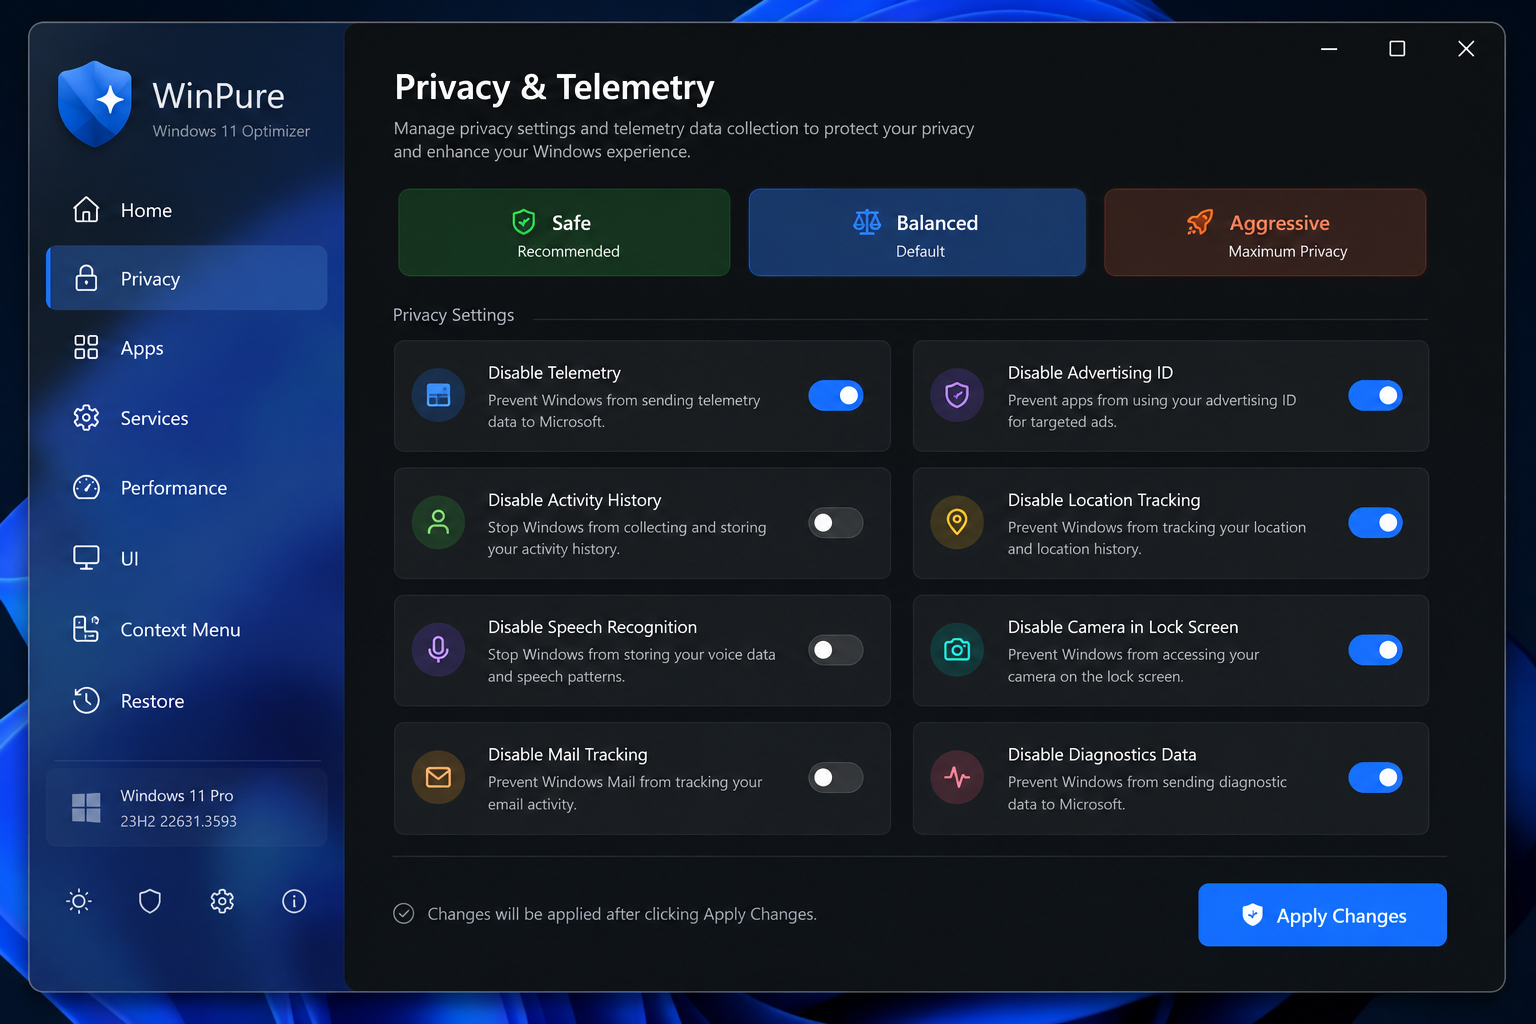
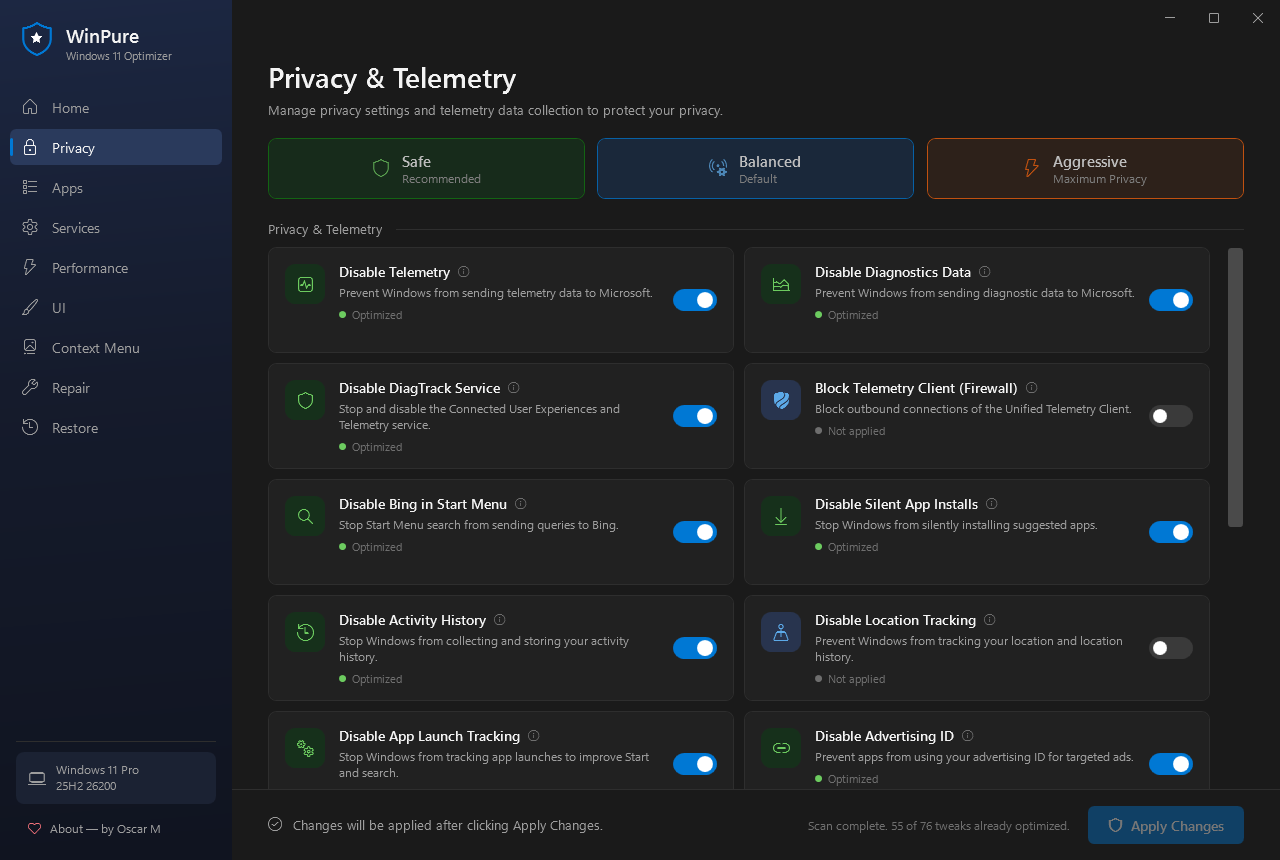
WinUtil-style README: badges, real screenshots, full tweak reference docs

diff --git a/src/WinPure/Services/RepairCatalog.cs b/src/WinPure/Services/RepairCatalog.cs
@@ -23,7 +23,7 @@ public static class RepairCatalog
             Id = "repair-restore-point",
             Name = "Create System Restore Point",
             Description = "Create a Windows restore point before making big changes.",
-            Icon = "",
+            Icon = "",
             Script = """
                 $ErrorActionPreference = 'Stop'
                 New-ItemProperty -Path 'HKLM:\SOFTWARE\Microsoft\Windows NT\CurrentVersion\SystemRestore' `
@@ -38,7 +38,7 @@ public static class RepairCatalog
             Id = "repair-system-files",
             Name = "Repair System Files (SFC + DISM)",
             Description = "Scan and repair corrupted Windows system files. Can take 15–30 minutes.",
-            Icon = "",
+            Icon = "",
             ConfirmText = "This runs 'sfc /scannow' followed by 'DISM /RestoreHealth'. It can take 15–30 minutes and cannot be cancelled midway. Continue?",
             TimeoutMs = 3_600_000,
             Script = """
@@ -52,7 +52,7 @@ public static class RepairCatalog
             Id = "repair-windows-update",
             Name = "Reset Windows Update",
             Description = "Fix stuck updates: clear the download cache and restart update services.",
-            Icon = "",
+            Icon = "",
             ConfirmText = "This stops the update services, clears the Windows Update download cache (SoftwareDistribution\\Download) and restarts the services. Continue?",
             Script = """
                 $ErrorActionPreference = 'SilentlyContinue'
@@ -71,7 +71,7 @@ public static class RepairCatalog
             Id = "repair-network",
             Name = "Reset Network",
             Description = "Reset Winsock, the TCP/IP stack and flush the DNS cache.",
-            Icon = "",
+            Icon = "",
             ConfirmText = "This resets Winsock and the TCP/IP stack (netsh) and flushes DNS. You should restart afterwards. Continue?",
             RequiresRestart = true,
             Script = """
@@ -86,7 +86,7 @@ public static class RepairCatalog
             Id = "repair-temp-files",
             Name = "Clean Temporary Files",
             Description = "Delete user and system temp files to free disk space.",
-            Icon = "",
+            Icon = "",
             Script = """
                 $ErrorActionPreference = 'SilentlyContinue'
                 $before = (Get-PSDrive -Name $env:SystemDrive.TrimEnd(':')).Free

diff --git a/README.md b/README.md
@@ -1,38 +1,150 @@
+<div align="center">
+
+<img src="docs/icon.png" width="120" alt="WinPure icon"/>
+
 # WinPure
 
 **A modern, safe, open-source Windows 11 debloater and optimizer.**
 
-WinPure lets you clean, optimize and take control of Windows 11 from a single Fluent-Design app: privacy & telemetry, bloatware, services, performance, UI and context-menu tweaks — with presets for one-click use and an always-available **Restore** that snapshots every change before it is made.
+*Made with ❤ by [Oscar Medina](https://www.youtube.com/@oscar_emeh) (@oscaremeh) — free for everyone, forever.*
 
-![WinPure — Privacy & Telemetry page](docs/screenshots/privacy.png)
+[![Latest release](https://img.shields.io/github/v/release/oscarmm91/winpure?color=0078D4&label=release)](https://github.com/oscarmm91/winpure/releases/latest)
+[![Downloads](https://img.shields.io/github/downloads/oscarmm91/winpure/total?color=107C10)](https://github.com/oscarmm91/winpure/releases)
+[![Build](https://github.com/oscarmm91/winpure/actions/workflows/build.yml/badge.svg)](https://github.com/oscarmm91/winpure/actions)
+[![License: MIT](https://img.shields.io/badge/license-MIT-blue.svg)](LICENSE)
+[![Platform](https://img.shields.io/badge/platform-Windows%2010%2F11-0078D4)](#requirements)
 
-## Highlights
+<img src="docs/screenshots/privacy.png" width="850" alt="WinPure — Privacy & Telemetry"/>
 
-- 🛡 **Never breaks your system** — every change is captured in a registry/service snapshot *before* it is applied. Roll back any session from the Restore page.
-- ⚡ **Three presets** — *Safe* (recommended, fully reversible), *Balanced* (+ optional services & third-party bloatware) and *Aggressive* (+ OneDrive, Copilot/AI, Xbox, DiagTrack).
-- 🎛 **Tweak-by-tweak control** — every tweak is a card with a description, detailed help, its real current state (already optimized / not applied) and a toggle. Mix presets with manual selection freely.
-- 🔍 **State detection** — on launch WinPure scans the system and shows what is already optimized.
-- 📴 **Fully offline** — no servers, no telemetry of its own, single portable .exe (runs from a USB stick).
+</div>
 
-## Download & run
+---
 
-1. Grab `WinPure.exe` from [Releases](../../releases) — no installer, no .NET required (self-contained).
-2. Run it. Windows asks for administrator permission (needed for HKLM/services/tasks).
-3. Pick a preset or toggle individual tweaks → **Apply Changes**.
+## Why WinPure?
 
-> Backups land in `%AppData%\WinPure\Backups\`, session logs in `%AppData%\WinPure\Logs\`.
+- 🛡 **It never breaks your system.** Every registry value, service and scheduled task is snapshotted **before** it is touched. One click in the *Restore* page rolls anything back.
+- ⚡ **One-click presets** — *Safe*, *Balanced* and *Aggressive* — or full manual control, tweak by tweak. Mix both freely.
+- 🔍 **Honest state detection.** On launch WinPure scans your system and shows what is *already optimized* vs *not applied*. No fake "boost" buttons.
+- 🧰 **Repair toolbox built in** — SFC + DISM, Windows Update reset, network reset, restore points and temp cleanup.
+- 📴 **100 % offline & portable.** A single .exe — no installer, no .NET needed, no telemetry of its own, runs from a USB stick.
+- 🆓 **MIT licensed.** Free for everyone, forever.
 
-## Tweak categories
+## Download
 
-| Category | Examples |
-|---|---|
-| **Privacy & Telemetry** | AllowTelemetry → 0, DiagTrack service, telemetry firewall block, Bing in Start, Activity History, Advertising ID, CEIP/Compatibility-Appraiser tasks |
-| **Bloatware & Apps** | Candy Crush, TikTok/Facebook/Instagram, Netflix/Disney+/Prime/Spotify, Skype, Clipchamp, Zune apps, Xbox suite, OneDrive, Copilot |
-| **Services** | SysMain, Search Indexing, Print Spooler, Remote Registry, Error Reporting, CDP, Geolocation, Fax, Bluetooth |
-| **Performance** | App/shutdown timeouts, foreground priority, animations, hibernation, power plan, Remote Desktop |
-| **UI & Personalization** | Dark mode, Start suggestions, taskbar Widgets/Task View/Chat, file extensions, hidden files, taskbar alignment |
-| **Context Menu** | Classic Windows 10 menu, remove "Edit with Clipchamp/Notepad/Photos", "Ask Copilot", "Share", "Give access to" |
-| **Repair & Maintenance** | System restore point, SFC + DISM repair, Reset Windows Update, Reset Network, clean temp files |
+1. Download **`WinPure.exe`** from the [latest release](https://github.com/oscarmm91/winpure/releases/latest).
+2. Run it — Windows asks for administrator permission (needed for HKLM, services and scheduled tasks).
+3. Pick a preset or flip individual toggles → **Apply Changes**. A backup is created automatically first.
+
+> 📁 Backups: `%AppData%\WinPure\Backups\` · Logs: `%AppData%\WinPure\Logs\`
+
+## Presets
+
+| Preset | What it includes | Risk |
+|---|---|---|
+| 🟢 **Safe** | Basic telemetry off, no Bing/ads in Start, advertising ID off, cleaner context menu, dark mode, taskbar cleanup | None — fully reversible |
+| 🔵 **Balanced** | Safe + optional services off, third-party bloatware removed (TikTok, Netflix, Candy Crush…), Delivery Optimization off, faster shutdown | Low |
+| 🟠 **Aggressive** | Balanced + OneDrive removal, Copilot/AI & Recall off, Xbox components removed, DiagTrack disabled, telemetry firewall block | Power users |
+
+Selecting a preset only marks the toggles — **nothing changes until you click Apply Changes**.
+
+## What it can do
+
+> 📚 Full tweak reference with registry details: [docs/tweaks.md](docs/tweaks.md)
+
+<details>
+<summary>🔒 <b>Privacy & Telemetry</b> — 16 tweaks</summary>
+<br/>
+Telemetry (AllowTelemetry → 0), diagnostics data, DiagTrack service, outbound telemetry firewall block, Bing in Start Menu, silent app installs, Consumer Features, Delivery Optimization, background apps, Activity History, location tracking, app-launch tracking, Advertising ID, Windows Feedback, online speech recognition, inking/typing personalization, Compatibility-Appraiser & CEIP scheduled tasks.
+<br/><br/>
+<img src="docs/screenshots/privacy.png" width="800"/>
+</details>
+
+<details>
+<summary>📦 <b>Bloatware & Apps</b> — 17 tweaks</summary>
+<br/>
+Candy Crush, TikTok/Facebook/X/Instagram, Netflix/Disney+/Prime/Spotify, Skype, Clipchamp, Paint 3D & 3D Viewer, To Do, Groove/Movies & TV, Solitaire, Wallet, Whiteboard, Phone Link, Dev Home, Get Help & Tips, Xbox suite + Game DVR, Copilot, Windows AI & Recall, OneDrive.
+<br/><br/>
+<img src="docs/screenshots/apps.png" width="800"/>
+</details>
+
+<details>
+<summary>⚙ <b>Services</b> — 9 tweaks</summary>
+<br/>
+SysMain (SuperFetch), Windows Search indexing, Print Spooler, Remote Registry, Error Reporting, Connected Devices Platform, Geolocation, Fax, Bluetooth — each disabled service is snapshotted with its original start mode.
+<br/><br/>
+<img src="docs/screenshots/services.png" width="800"/>
+</details>
+
+<details>
+<summary>🚀 <b>Performance</b> — 10 tweaks</summary>
+<br/>
+Faster app timeouts & shutdown, foreground-app priority, window animations, hibernation, High Performance power plan, fullscreen optimizations, mouse acceleration, long paths, Remote Desktop.
+<br/><br/>
+<img src="docs/screenshots/performance.png" width="800"/>
+</details>
+
+<details>
+<summary>🎨 <b>UI & Personalization</b> — 14 tweaks</summary>
+<br/>
+Dark mode, Snap Assist flyout, Start Menu suggestions/most-used/recently-added, "new app" badge, file extensions, hidden files, Widgets/Task View/Chat taskbar buttons, taskbar alignment, End Task on right-click, Aero Shake.
+<br/><br/>
+<img src="docs/screenshots/ui.png" width="800"/>
+</details>
+
+<details>
+<summary>🖱 <b>Context Menu</b> — 7 tweaks</summary>
+<br/>
+Restore the classic Windows 10 right-click menu, remove "Edit with Clipchamp / Notepad / Photos", "Ask Copilot", "Share" and "Give access to".
+<br/><br/>
+<img src="docs/screenshots/contextmenu.png" width="800"/>
+</details>
+
+<details>
+<summary>🔧 <b>Repair & Maintenance</b> — 5 tools</summary>
+<br/>
+Create a system restore point, repair system files (SFC + DISM), reset Windows Update components, reset the network stack, clean temporary files.
+<br/><br/>
+<img src="docs/screenshots/repair.png" width="800"/>
+</details>
+
+<details>
+<summary>♻ <b>Restore / Backup</b> — undo anything</summary>
+<br/>
+Every Apply creates a JSON snapshot of the exact registry values, service start modes and task states that are about to change. Restore any session — or a single one — at any time.
+<br/><br/>
+<img src="docs/screenshots/restore.png" width="800"/>
+</details>
+
+<details>
+<summary>🏠 <b>Dashboard & About</b></summary>
+<br/>
+<img src="docs/screenshots/dashboard.png" width="800"/>
+<br/><br/>
+<img src="docs/screenshots/about.png" width="320"/>
+</details>
+
+## FAQ
+
+**Is it safe?**
+Yes. WinPure only uses documented registry policies and standard Windows commands, never patches system files, and snapshots everything before changing it. The *Safe* preset is 100 % reversible by design.
+
+**Something broke / I changed my mind. How do I undo?**
+Open **Restore**, pick the snapshot from when you applied the change, click *Restore*. App removals are the only exception — reinstall those from the Microsoft Store.
+
+**Why does it need administrator rights?**
+Most tweaks live in `HKEY_LOCAL_MACHINE`, services and scheduled tasks — all of which require elevation. WinPure asks via the standard UAC prompt.
+
+**Does WinPure phone home?**
+No. Zero network calls except the ones *you* trigger (e.g. the telemetry firewall rule it *blocks*). No analytics, no auto-update.
+
+**Windows 10?**
+Windows 11 is the target; most tweaks also work on Windows 10 22H2+, but it is not actively tested there.
+
+## Requirements
+
+- Windows 11 (Windows 10 22H2+ mostly compatible)
+- Administrator account
+- Nothing else — the exe is self-contained
 
 ## Building from source
 
@@ -42,11 +154,21 @@ dotnet build WinPure.sln                                  # debug build
 dotnet publish src/WinPure/WinPure.csproj -c Release      # portable single-file exe
 ```
 
+Stack: WPF (.NET 8) · C# · MVVM · zero NuGet dependencies. Tweaks are plain data in [`TweakCatalog.cs`](src/WinPure/Services/TweakCatalog.cs) — adding one is a ~10-line PR.
+
 ## Author
 
-Made with ❤ by **Oscar Medina** (@oscaremeh) — *free for everyone, forever.*
+<img src="docs/screenshots/about.png" width="300" align="right"/>
 
-[Instagram](https://www.instagram.com/oscar.emeh/) · [TikTok](https://www.tiktok.com/@oscar.emeh) · [YouTube](https://www.youtube.com/@oscar_emeh)
+Made with ❤ by **Oscar Medina** — *@oscaremeh*
+
+- 📷 [Instagram](https://www.instagram.com/oscar.emeh/)
+- 🎵 [TikTok](https://www.tiktok.com/@oscar.emeh)
+- ▶ [YouTube](https://www.youtube.com/@oscar_emeh)
+
+*Free for everyone, forever.*
+
+<br clear="right"/>
 
 ## Credits
 
@@ -59,4 +181,4 @@ Tweak research builds on the excellent work of
 
 ## License
 
-[MIT](LICENSE) — free and open source.
+[MIT](LICENSE)

diff --git a/docs/tweaks.md b/docs/tweaks.md
@@ -1,0 +1,124 @@
+# WinPure — Tweak Reference
+
+Every tweak, what it touches, and which preset includes it. **Manual** = never auto-selected by a preset.
+All registry/service changes are snapshotted to `%AppData%\WinPure\Backups\` before being applied.
+
+## 🔒 Privacy & Telemetry
+
+| Tweak | Preset | What it does |
+|---|---|---|
+| Disable Telemetry | Safe | `HKLM …\Policies\DataCollection!AllowTelemetry = 0` (Security level) |
+| Disable Diagnostics Data | Safe | Tailored experiences off + feedback notifications hidden |
+| Disable DiagTrack Service | Aggressive | Stops & disables the Connected User Experiences and Telemetry service |
+| Block Telemetry Client (Firewall) | Aggressive | Outbound firewall rule blocking the DiagTrack service |
+| Disable Bing in Start Menu | Safe | `DisableSearchBoxSuggestions = 1` — local search only |
+| Disable Silent App Installs | Safe | `SilentInstalledAppsEnabled = 0` — no sponsored auto-installs |
+| Disable Consumer Features | Safe | `DisableWindowsConsumerFeatures = 1` (no Store games/links auto-install) |
+| Disable Delivery Optimization | Balanced | `DODownloadMode = 0` — stop uploading updates with your bandwidth |
+| Disable Background Apps | Balanced | `BackgroundAccessApplications!GlobalUserDisabled = 1` |
+| Disable Activity History | Safe | Activity feed off; no publishing/uploading user activities |
+| Disable Location Tracking | Balanced | `LocationAndSensors!DisableLocation = 1` |
+| Disable App Launch Tracking | Safe | `Start_TrackProgs = 0` |
+| Disable Advertising ID | Safe | `AdvertisingInfo!Enabled = 0` |
+| Disable Windows Feedback | Safe | `Siuf\Rules!NumberOfSIUFInPeriod = 0` |
+| Disable Online Speech Recognition | Balanced | `OnlineSpeechPrivacy!HasAccepted = 0` |
+| Disable Inking & Typing Personalization | Balanced | InputPersonalization restrictions + TIPC off |
+| Disable Compatibility Telemetry Tasks | Aggressive | Disables *Microsoft Compatibility Appraiser* & *ProgramDataUpdater* scheduled tasks |
+| Disable CEIP & Feedback Tasks | Aggressive | Disables *Consolidator*, *UsbCeip*, *DmClient* scheduled tasks |
+
+## 📦 Bloatware & Apps
+
+App removals use `Remove-AppxPackage -AllUsers` + de-provisioning. **Undo = reinstall from the Microsoft Store** (WinPure warns before applying).
+
+| Tweak | Preset | Packages / keys |
+|---|---|---|
+| Remove Candy Crush | Balanced | `king.com.*` |
+| Remove Social Media Apps | Balanced | TikTok, Facebook, Twitter/X, Instagram |
+| Remove Streaming Apps | Balanced | Netflix, Disney+, Prime Video, Spotify |
+| Remove Skype | Balanced | `Microsoft.SkypeApp` |
+| Remove Clipchamp | Balanced | `Clipchamp.Clipchamp` |
+| Remove Paint 3D & 3D Viewer | Balanced | `Microsoft.MSPaint`, `Microsoft.Microsoft3DViewer` |
+| Remove Microsoft To Do | Manual | `Microsoft.Todos` |
+| Remove Groove Music & Movies + TV | Balanced | `Microsoft.ZuneMusic`, `Microsoft.ZuneVideo` |
+| Remove Solitaire Collection | Balanced | `Microsoft.MicrosoftSolitaireCollection` |
+| Remove Wallet | Balanced | `Microsoft.Wallet` |
+| Remove Whiteboard | Manual | `Microsoft.Whiteboard` |
+| Remove Phone Link | Balanced | `Microsoft.YourPhone` |
+| Remove Dev Home | Balanced | `Microsoft.DevHome` |
+| Remove Get Help & Tips | Balanced | `Microsoft.GetHelp`, `Microsoft.Getstarted` |
+| Remove Xbox Apps & Overlay | Aggressive | Xbox app family + Game DVR off (`GameDVR_Enabled = 0`, `AllowGameDVR = 0`) |
+| Disable Copilot / Windows AI | Aggressive | `TurnOffWindowsCopilot = 1` (HKLM + HKCU) + taskbar button off |
+| Disable Windows AI & Recall | Aggressive | `WindowsAI!DisableAIDataAnalysis = 1`, Notepad AI off, AI Settings page hidden |
+| Remove OneDrive | Aggressive | `OneDriveSetup /uninstall` + `DisableFileSyncNGSC = 1` (files stay on disk) |
+
+## ⚙ Services
+
+Disabling sets registry `Start = 4` and stops the service; the original start mode is captured in the backup.
+
+| Tweak | Preset | Service | Stock mode |
+|---|---|---|---|
+| Disable SysMain (SuperFetch) | Manual | `SysMain` | Automatic |
+| Disable Search Indexing | Manual | `WSearch` | Automatic |
+| Disable Print Spooler | Manual | `Spooler` | Automatic |
+| Disable Remote Registry | Balanced | `RemoteRegistry` | Disabled |
+| Disable Windows Error Reporting | Balanced | `WerSvc` | Manual |
+| Disable Connected Devices Platform | Balanced | `CDPSvc` | Automatic |
+| Disable Geolocation Service | Balanced | `lfsvc` | Manual |
+| Disable Fax Service | Balanced | `Fax` | Manual |
+| Disable Bluetooth Support | Manual | `bthserv` | Manual |
+
+## 🚀 Performance
+
+| Tweak | Preset | What it does |
+|---|---|---|
+| Faster App Timeouts | Safe | `WaitToKillAppTimeout 5000→2000`, `HungAppTimeout 5000→1000` |
+| Faster System Shutdown | Balanced | `WaitToKillServiceTimeout 5000→2000` |
+| Disable Window Animations | Manual | `MinAnimate = 0`, taskbar animations off |
+| Prioritize Foreground Apps | Balanced | `Win32PrioritySeparation = 38` |
+| Disable Hibernation | Manual | `powercfg /hibernate off` (frees hiberfil.sys) |
+| High Performance Power Plan | Manual | `powercfg /setactive` High Performance (not for laptops) |
+| Disable Fullscreen Optimizations | Manual | `GameDVR_DXGIHonorFSEWindowsCompatible = 1` |
+| Disable Mouse Acceleration | Manual | `MouseSpeed/Threshold1/Threshold2 = 0` |
+| Enable Long Paths | Manual | `FileSystem!LongPathsEnabled = 1` |
+| Disable Remote Desktop | Balanced | `fDenyTSConnections = 1` |
+
+## 🎨 UI & Personalization
+
+| Tweak | Preset | What it does |
+|---|---|---|
+| Enable Dark Mode | Safe | `AppsUseLightTheme = 0`, `SystemUsesLightTheme = 0` |
+| Disable Snap Assist Flyout | Manual | `EnableSnapAssistFlyout = 0` |
+| Hide Suggestions in Start | Safe | Subscribed content + `Start_IrisRecommendations = 0` |
+| Hide Most Used Apps in Start | Manual | `ShowOrHideMostUsedApps = 2` |
+| Hide Recently Added Apps in Start | Manual | `HideRecentlyAddedApps = 1` |
+| Hide 'New App Installed' Badge | Safe | `NoNewAppAlert = 1` |
+| Show File Extensions | Safe | `HideFileExt = 0` |
+| Show Hidden Files | Manual | `Hidden = 1` |
+| Remove Widgets Button | Safe | `TaskbarDa = 0` |
+| Remove Task View Button | Safe | `ShowTaskViewButton = 0` |
+| Remove Chat/Teams Button | Safe | `TaskbarMn = 0` |
+| Align Taskbar Left | Manual | `TaskbarAl = 0` |
+| End Task on Taskbar Right-Click | Safe | `TaskbarDeveloperSettings!TaskbarEndTask = 1` |
+| Disable Aero Shake | Safe | `DisallowShaking = 1` |
+
+## 🖱 Context Menu
+
+| Tweak | Preset | Mechanism |
+|---|---|---|
+| Restore Classic Context Menu | Safe | Empty `InprocServer32` for CLSID `{86ca1aa0-34aa-4e8b-a509-50c905bae2a2}` |
+| Remove 'Edit with Clipchamp' | Safe | Blocked shell extension `{8AB635F8-9A67-4698-AB99-784AD929F3B4}` |
+| Remove 'Edit with Notepad' | Manual | Blocked shell extension `{CA6CC9F1-867A-481E-951E-A28C5E4F01EA}` |
+| Remove 'Edit with Photos' | Manual | Blocked shell extension `{BFE0E2A4-C70C-4AD7-AC3D-10D1ECEBB5B4}` |
+| Remove 'Ask Copilot' | Safe | Blocked shell extension `{CB3B0003-8088-4EDE-8769-8B354AB2FF8C}` |
+| Remove 'Share' | Manual | Deletes `ModernSharing` context-menu handler (recreated on revert) |
+| Remove 'Give access to' | Safe | Deletes `Sharing` handlers on files, folders, background & drives |
+
+## 🔧 Repair & Maintenance (one-shot tools)
+
+| Tool | What it runs |
+|---|---|
+| Create System Restore Point | `Enable-ComputerRestore` + `Checkpoint-Computer` (frequency limit lifted) |
+| Repair System Files | `sfc /scannow` + `DISM /Online /Cleanup-Image /RestoreHealth` |
+| Reset Windows Update | Stops `wuauserv/BITS/cryptsvc`, clears download cache + qmgr, restarts services |
+| Reset Network | `netsh winsock reset`, `netsh int ip reset`, `ipconfig /flushdns` |
+| Clean Temporary Files | Empties `%TEMP%` and `C:\Windows\Temp`, reports MB freed |
